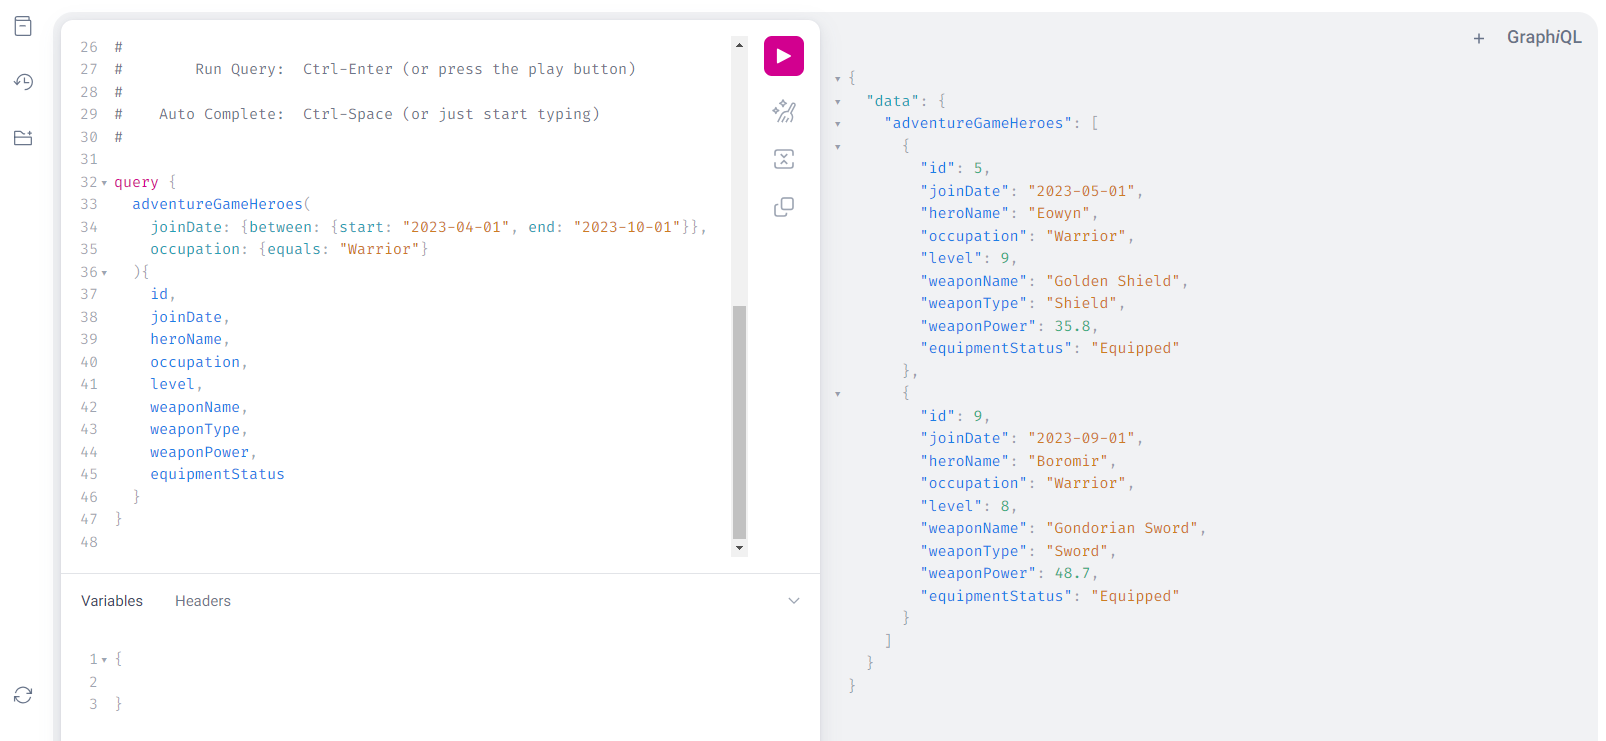
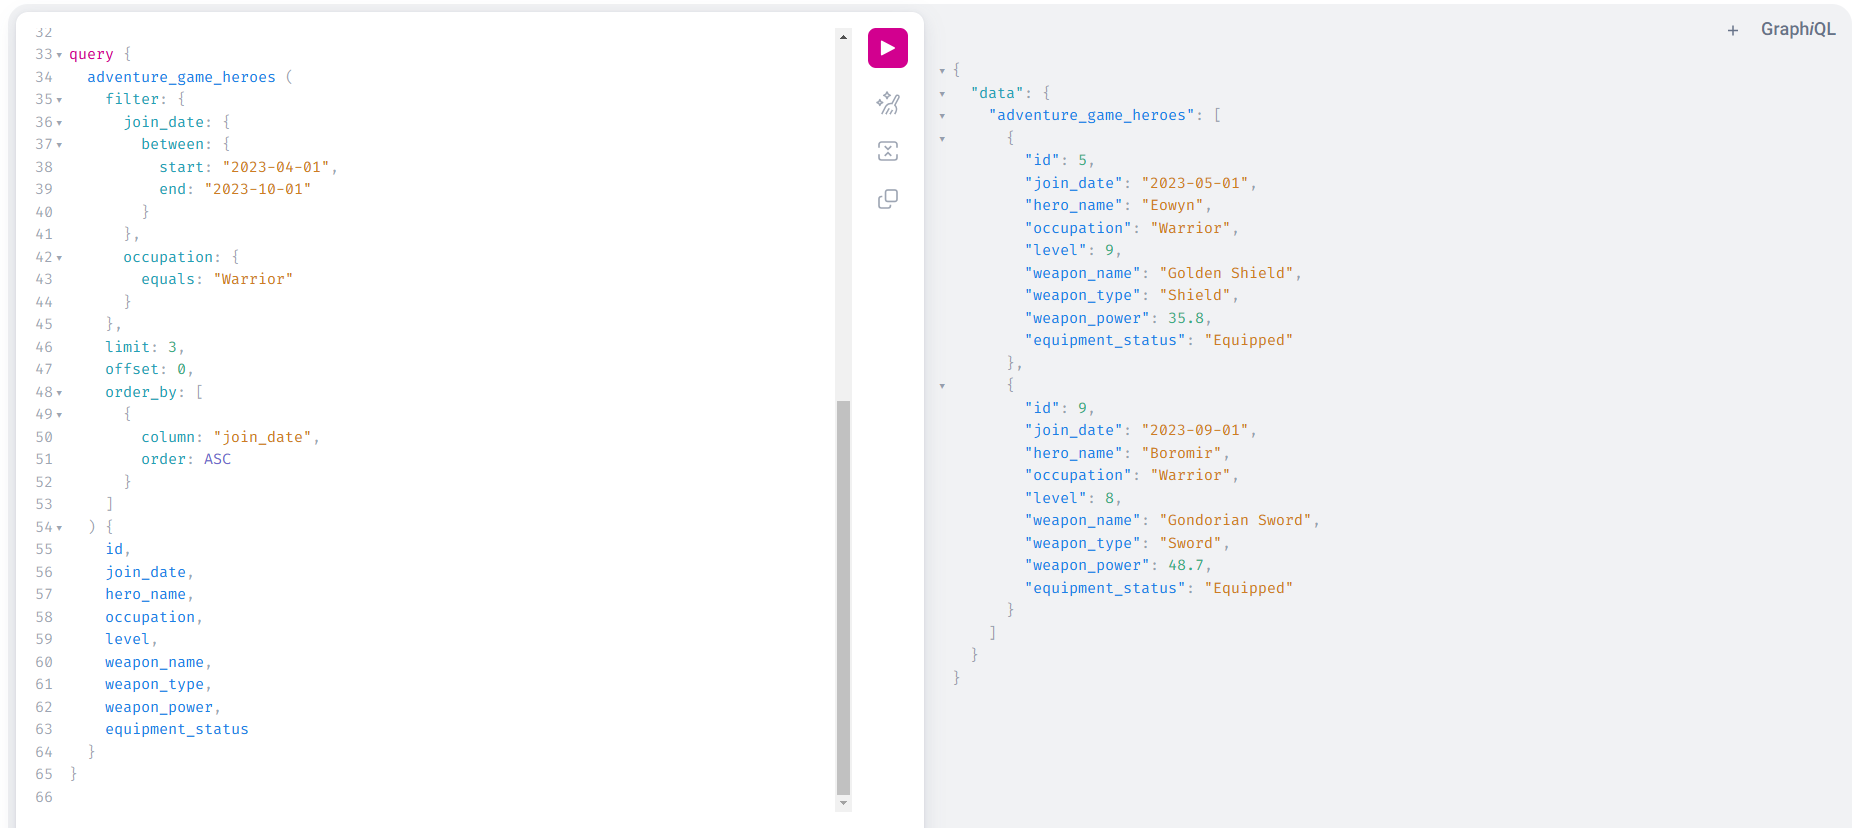
feat: rename dir as dynamic_schema_graphql

diff --git a/dynamic_schema_graphql/settings.py b/dynamic_schema_graphql/settings.py
@@ -1,5 +1,5 @@
 """
-Django settings for dynamic_schema_GraphQL_python_django project.
+Django settings for dynamic_schema_graphql project.
 
 Generated by 'django-admin startproject' using Django 5.0.6.
 
@@ -51,7 +51,7 @@ MIDDLEWARE = [
     'django.middleware.clickjacking.XFrameOptionsMiddleware',
 ]
 
-ROOT_URLCONF = 'dynamic_schema_GraphQL_python_django.urls'
+ROOT_URLCONF = 'dynamic_schema_graphql.urls'
 
 TEMPLATES = [
     {
@@ -69,13 +69,13 @@ TEMPLATES = [
     },
 ]
 
-WSGI_APPLICATION = 'dynamic_schema_GraphQL_python_django.wsgi.application'
+WSGI_APPLICATION = 'dynamic_schema_graphql.wsgi.application'
 
 
 # Database
 # https://docs.djangoproject.com/en/5.0/ref/settings/#databases
 
-from dynamic_schema_GraphQL_python_django.connections import get_mysql_connection
+from dynamic_schema_graphql.connections import get_mysql_connection
 DATABASE_YAML_PATH = os.path.join(BASE_DIR, "etc", "database.yaml")
 DATABASES = get_mysql_connection(DATABASE_YAML_PATH)
 

diff --git a/dynamic_schema_graphql/asgi.py b/dynamic_schema_graphql/asgi.py
@@ -1,5 +1,5 @@
 """
-ASGI config for dynamic_schema_GraphQL_python_django project.
+ASGI config for dynamic_schema_graphql project.
 
 It exposes the ASGI callable as a module-level variable named ``application``.
 
@@ -11,6 +11,6 @@ import os
 
 from django.core.asgi import get_asgi_application
 
-os.environ.setdefault('DJANGO_SETTINGS_MODULE', 'dynamic_schema_GraphQL_python_django.settings')
+os.environ.setdefault('DJANGO_SETTINGS_MODULE', 'dynamic_schema_graphql.settings')
 
 application = get_asgi_application()

diff --git a/dynamic_schema_graphql/wsgi.py b/dynamic_schema_graphql/wsgi.py
@@ -1,5 +1,5 @@
 """
-WSGI config for dynamic_schema_GraphQL_python_django project.
+WSGI config for dynamic_schema_graphql project.
 
 It exposes the WSGI callable as a module-level variable named ``application``.
 
@@ -11,6 +11,6 @@ import os
 
 from django.core.wsgi import get_wsgi_application
 
-os.environ.setdefault('DJANGO_SETTINGS_MODULE', 'dynamic_schema_GraphQL_python_django.settings')
+os.environ.setdefault('DJANGO_SETTINGS_MODULE', 'dynamic_schema_graphql.settings')
 
 application = get_wsgi_application()

diff --git a/manage.py b/manage.py
@@ -6,7 +6,7 @@ import sys
 
 def main():
     """Run administrative tasks."""
-    os.environ.setdefault('DJANGO_SETTINGS_MODULE', 'dynamic_schema_GraphQL_python_django.settings')
+    os.environ.setdefault('DJANGO_SETTINGS_MODULE', 'dynamic_schema_graphql.settings')
     try:
         from django.core.management import execute_from_command_line
     except ImportError as exc:

diff --git a/graphql_app/models.py b/graphql_app/models.py
@@ -3,7 +3,7 @@ import os
 from django.db import models
 import graphene
 from graphene_django import DjangoObjectType
-from dynamic_schema_GraphQL_python_django.settings import BASE_DIR
+from dynamic_schema_graphql.settings import BASE_DIR
 
 schema_path = os.path.join(BASE_DIR, "etc", "schema.yaml")
 with open(schema_path, "r") as file:

diff --git a/graphql_app/schema.py b/graphql_app/schema.py
@@ -2,7 +2,7 @@ import graphene
 from graphql_app import models
 from graphql_app.filters import get_filter_argument
 from django.db.models import Q 
-import dynamic_schema_GraphQL_python_django.settings as settings
+import dynamic_schema_graphql.settings as settings
 
 class OrderEnum(graphene.Enum):
     ASC = "ASC"

diff --git a/dynamic_schema_graphql/urls.py b/dynamic_schema_graphql/urls.py
@@ -1,5 +1,5 @@
 """
-URL configuration for dynamic_schema_GraphQL_python_django project.
+URL configuration for dynamic_schema_graphql project.
 
 The `urlpatterns` list routes URLs to views. For more information please see:
     https://docs.djangoproject.com/en/5.0/topics/http/urls/

diff --git a/README.md b/README.md
@@ -21,7 +21,7 @@ port: 9030
 ```
 
 etc/schema.yaml  
-enabled data type: String, Integer, Double, Date
+enabled data type: `String`, `Integer`, `Double`, `Date`
 ```
 tables:
   - name: adventure_game_heroes
@@ -48,7 +48,7 @@ tables:
 
 ### Example Data
 
-adventure_game_heroes.sql
+[adventure_game_heroes.sql](adventure_game_heroes.sql)
 
 ![image](./images/doris_example.png)
 
@@ -74,24 +74,65 @@ windows: click .venv/Scripts/activate.bat
 python manage.py runserver
 ```
 
-UI
+## UI
 ```
-localhost:8000  
+localhost:8000/graphql  
 ```
 
-enabled filter
+### Query
+
+**(i) filter option**
 ```
 "equals": value, 
-"greaterThan": value, 
-"greaterThanOrEquals": value,
-"lessThan": value, 
-"lessThanOrEquals": value, 
+"greater_than": value, 
+"greater_than_or_equals": value,
+"less_than": value, 
+"less_than_or_equals": value, 
 "between": {"start": value, "end": value}
 ```
+**(ii) limit**  
+**(iii) offset**  
+**(vi) order_by: [ {column, order: ASC/DESC} ]**  
 
+#### Example  
+```graphql
+query {
+  adventure_game_heroes (
+    filter: {
+      join_date: {
+        between: {
+          start: "2023-04-01",
+          end: "2023-10-01"
+        }
+      },
+      occupation: {
+        equals: "Warrior"
+      }
+    },
+    limit: 3,
+    offset: 0,
+    order_by: [
+      {
+        column: "join_date",
+        order: ASC
+      }
+    ]
+  ) {
+    id,
+    join_date,
+    hero_name,
+    occupation,
+    level,
+    weapon_name,
+    weapon_type,
+    weapon_power,
+    equipment_status
+  }
+}
+```
 ![image](./images/ui_example.png)
 
-Swagger
+## Swagger
 ```
 localhost:8000/swagger-ui  
 ```
